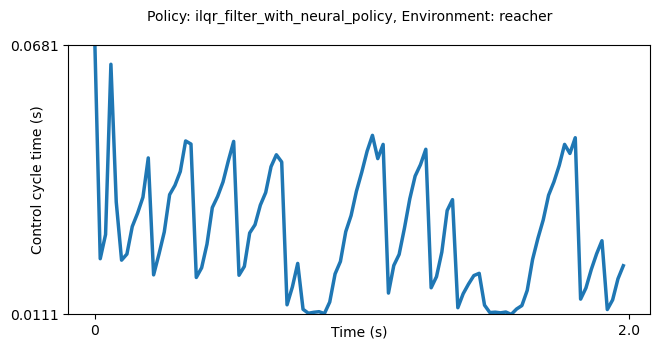
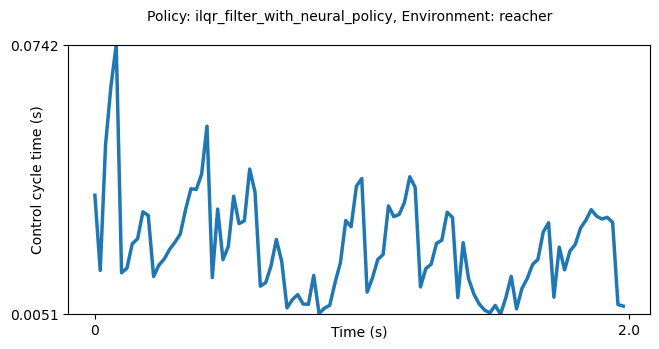
MJX exploration (#7)
* unit test failure

* switch to mjx backend

* unit test to check whether gc rollout is sufficient

* reacher works

* backward compatibility

* ant with mjx

diff --git a/test_brax_env.py b/test_brax_env.py
@@ -12,6 +12,7 @@ from brax.training.agents.ppo import train as ppo
 from brax.io import model
 from brax import envs
 from brax_utils import ( WrappedBraxEnv, 
+      WrappedMJXEnv, 
       ReacherRegularizedGoalCost, 
       iLQRBrax, 
       iLQRBraxReachability, 
@@ -28,7 +29,7 @@ def get_neural_policy(env_name, backend):
       'reacher': functools.partial(ppo.train, num_timesteps=1, num_evals=1, reward_scaling=5, episode_length=1000, normalize_observations=True, action_repeat=4, unroll_length=50, num_minibatches=1, num_updates_per_batch=8, discounting=0.95, learning_rate=3e-4, entropy_cost=1e-3, num_envs=1, batch_size=256, max_devices_per_host=8, seed=1),
       'ant': functools.partial(ppo.train, num_timesteps=0, num_evals=1, reward_scaling=10, episode_length=1000, normalize_observations=True, action_repeat=1, unroll_length=5, num_minibatches=32, num_updates_per_batch=4, discounting=0.97, learning_rate=3e-4, entropy_cost=1e-2, num_envs=4096, batch_size=2048, seed=1),
     }[env_name]
-    brax_env = WrappedBraxEnv(env_name, backend)
+    brax_env = get_brax_env(env_name, backend)
     make_inference_fn, params, _ = train_fn(environment=brax_env.env)
     params = model.load_params(f'./brax_utils/trained_models/{env_name}_params')
     inference_fn = make_inference_fn(params)
@@ -45,16 +46,23 @@ def warmup_jit_with_task_policy_rollout(rng, state, brax_env, task_policy, safet
     safety_filter.get_action(obs=state, state=state, task_ctrl=task_ctrl, prev_ctrl = np.zeros((brax_env.dim_u, )), warmup=True)
 
     # Substitute for rejection sampling
-    for _ in range(10):
+    for _ in range(15):
       task_ctrl, _ = task_policy(state.obs, act_rng)
       safety_filter.get_action(obs=state, state=state, task_ctrl=task_ctrl, prev_ctrl = np.zeros((brax_env.dim_u, )), warmup=True)
       state = brax_env.step(state, task_ctrl)
 
+def get_brax_env(env_name, backend):
+    if backend=='mjx':
+        return WrappedMJXEnv(env_name, backend)
+    else:
+        return WrappedBraxEnv(env_name, backend)
+
 
 def main(seed: int, env_name='reacher', policy_type="neural"):
     # @param ['ant', 'halfcheetah', 'hopper', 'humanoid', 'humanoidstandup', 'inverted_pendulum', 'inverted_double_pendulum', 'pusher', 'reacher', 'walker2d']
-    backend = 'generalized'  # @param ['generalized', 'positional', 'spring']
-    brax_env = WrappedBraxEnv(env_name, backend)
+    backend = 'mjx'  # @param ['generalized', 'positional', 'spring']
+    brax_env = get_brax_env(env_name, backend)
+
     rng = jax.random.PRNGKey(seed=seed)
     state = brax_env.reset(rng=rng)
     save_folder = f"./brax_videos/{env_name}/seed_{seed}"
@@ -74,13 +82,13 @@ def main(seed: int, env_name='reacher', policy_type="neural"):
       config_cost.N = config_solver.N
       reachability_cost = None
       if env_name=="reacher":
-        reachability_cost = ReacherReachabilityMargin(config=config_cost, env=WrappedBraxEnv(env_name, backend))
+        reachability_cost = ReacherReachabilityMargin(config=config_cost, env=get_brax_env(env_name, backend))
       elif env_name=="ant":
-        reachability_cost = AntReachabilityMargin(config=config_cost, env=WrappedBraxEnv(env_name, backend))
+        reachability_cost = AntReachabilityMargin(config=config_cost, env=get_brax_env(env_name, backend))
       else:
         raise NotImplementedError("Other environments not implemented.")
 
-      safe_policy = iLQRBraxReachability(id=env_name, brax_env=WrappedBraxEnv(env_name, backend), cost=reachability_cost, config=config_solver)
+      safe_policy = iLQRBraxReachability(id=env_name, brax_env=get_brax_env(env_name, backend), cost=reachability_cost, config=config_solver)
       # Warmup
       safe_policy.get_action(state, controls=None)
       T = config_solver.MAX_ITER_RECEDING
@@ -89,8 +97,8 @@ def main(seed: int, env_name='reacher', policy_type="neural"):
       config = load_config(f'./brax_utils/configs/{env_name}.yaml')
       config_solver = config['solver']
       cost = ReacherRegularizedGoalCost(center=brax_env._get_obs(state.pipeline_state)[4:6], 
-                                          env=WrappedBraxEnv(env_name, backend), ctrl_cost_matrix=-3*jnp.eye(2))
-      policy = iLQRBrax(id=env_name, brax_env=WrappedBraxEnv(env_name, backend), cost=cost, config=config_solver)
+                                          env=get_brax_env(env_name, backend), ctrl_cost_matrix=-3*jnp.eye(2))
+      policy = iLQRBrax(id=env_name, brax_env=get_brax_env(env_name, backend), cost=cost, config=config_solver)
       # Warmup
       policy.get_action(state, controls=None)
       T = config_solver.MAX_ITER_RECEDING
@@ -102,13 +110,13 @@ def main(seed: int, env_name='reacher', policy_type="neural"):
 
       reachability_cost = None
       if env_name=="reacher":
-        reachability_cost = ReacherReachabilityMargin(config=config_cost, env=WrappedBraxEnv(env_name, backend))
+        reachability_cost = ReacherReachabilityMargin(config=config_cost, env=get_brax_env(env_name, backend))
       elif env_name=="ant":
-        reachability_cost = AntReachabilityMargin(config=config_cost, env=WrappedBraxEnv(env_name, backend))
+        reachability_cost = AntReachabilityMargin(config=config_cost, env=get_brax_env(env_name, backend))
       else:
         raise NotImplementedError("Other environments not implemented.")
 
-      policy = iLQRBraxReachability(id=env_name, brax_env=WrappedBraxEnv(env_name, backend), cost=reachability_cost, config=config_solver)
+      policy = iLQRBraxReachability(id=env_name, brax_env=get_brax_env(env_name, backend), cost=reachability_cost, config=config_solver)
       # Warmup
       policy.get_action(state, controls=None)
       T = config_solver.MAX_ITER_RECEDING
@@ -119,16 +127,16 @@ def main(seed: int, env_name='reacher', policy_type="neural"):
       config_cost.N = config_solver.N
       
       if env_name=="reacher":
-        reachability_cost = ReacherReachabilityMargin(config=config_cost, env=WrappedBraxEnv(env_name, backend))
+        reachability_cost = ReacherReachabilityMargin(config=config_cost, env=get_brax_env(env_name, backend))
       elif env_name=="ant":
         # NOTE: DOES NOT WORK
-        reachability_cost = AntReachabilityMargin(config=config_cost, env=WrappedBraxEnv(env_name, backend))
+        reachability_cost = AntReachabilityMargin(config=config_cost, env=get_brax_env(env_name, backend))
       else:
         raise NotImplementedError("Other environments not implemented.")
       
-      #safe_policy = iLQRBraxReachability(id=env_name, brax_env=WrappedBraxEnv(env_name, backend), cost=reachability_cost, config=config_solver)
+      #safe_policy = iLQRBraxReachability(id=env_name, brax_env=get_brax_env(env_name, backend), cost=reachability_cost, config=config_solver)
       task_policy = get_neural_policy(env_name, backend)
-      brax_envs = [WrappedBraxEnv(env_name, backend), WrappedBraxEnv(env_name, backend), WrappedBraxEnv(env_name, backend), WrappedBraxEnv(env_name, backend)]
+      brax_envs = [get_brax_env(env_name, backend), get_brax_env(env_name, backend), get_brax_env(env_name, backend), get_brax_env(env_name, backend)]
       safety_filter =  iLQRBraxSafetyFilter(id=env_name, brax_envs=brax_envs, cost=reachability_cost, config=config_solver)
 
       # Warmup
@@ -145,12 +153,12 @@ def main(seed: int, env_name='reacher', policy_type="neural"):
       config_solver = config['solver']
       config_cost = config['cost']
       config_cost.N = config_solver.N
-      reachability_cost = ReacherReachabilityMargin(config=config_cost, env=WrappedBraxEnv(env_name, backend))
-      #safe_policy = iLQRBraxReachability(id=env_name, brax_env=WrappedBraxEnv(env_name, backend), cost=reachability_cost, config=config_solver)
+      reachability_cost = ReacherReachabilityMargin(config=config_cost, env=get_brax_env(env_name, backend))
+      #safe_policy = iLQRBraxReachability(id=env_name, brax_env=get_brax_env(env_name, backend), cost=reachability_cost, config=config_solver)
       cost = ReacherRegularizedGoalCost(center=brax_env._get_obs(state.pipeline_state)[4:6], 
-                                          env=WrappedBraxEnv(env_name, backend), ctrl_cost_matrix=-3*jnp.eye(2))
-      task_policy = iLQRBrax(id=env_name, brax_env=WrappedBraxEnv(env_name, backend), cost=cost, config=config_solver)
-      brax_envs = [WrappedBraxEnv(env_name, backend), WrappedBraxEnv(env_name, backend), WrappedBraxEnv(env_name, backend), WrappedBraxEnv(env_name, backend)]
+                                          env=get_brax_env(env_name, backend), ctrl_cost_matrix=-3*jnp.eye(2))
+      task_policy = iLQRBrax(id=env_name, brax_env=get_brax_env(env_name, backend), cost=cost, config=config_solver)
+      brax_envs = [get_brax_env(env_name, backend), get_brax_env(env_name, backend), get_brax_env(env_name, backend), get_brax_env(env_name, backend)]
       safety_filter =  iLQRBraxSafetyFilter(id=env_name, brax_envs=brax_envs, cost=reachability_cost, config=config_solver)
       # Warmup
       act_rng, rng = jax.random.split(rng)

diff --git a/brax_utils/wrapped_env/wrapper_env.py b/brax_utils/wrapped_env/wrapper_env.py
@@ -94,6 +94,26 @@ class WrappedBraxEnv(ABC):
     def _get_obs(self, pipeline_state: State) -> jax.Array:
         return self.env._get_obs(pipeline_state)
 
+    def test_gc_rollout(self):
+        # FAILS - to provide information about MJX
+        rng = jax.random.PRNGKey(seed=0)
+        test_state = self.reset(rng=rng)
+
+        for _ in range(100):
+            action = np.random.rand(self.dim_u)
+            new_state = self.step(test_state, action)
+            print(test_state.pipeline_state.qpos, test_state.pipeline_state.qvel)
+            new_gc_state = self.step_generalized_coordinates(test_state, test_state.pipeline_state.qpos, test_state.pipeline_state.qvel, action)
+
+            np.testing.assert_allclose(new_state.pipeline_state.qpos, new_gc_state[0:self.dim_q_states], atol=1e-4, rtol=1e-4)
+            np.testing.assert_allclose(new_state.pipeline_state.qvel, new_gc_state[self.dim_q_states:], atol=1e-4, rtol=1e-4)
+
+            test_state = new_state
+
+        print("Unit test passed")
+
+        return True
+
     def plot_states_and_controls(self, save_dict, save_folder):
         states = save_dict['gc_states']
         ctrls = save_dict['actions']
@@ -228,3 +248,27 @@ class WrappedBraxEnv(ABC):
         fig.suptitle(f'Policy: {policy_type}, Environment: {self.env_name}', fontsize=legend_fontsize)
         fig.savefig(os.path.join(save_folder, f'{policy_type}_values.png'), bbox_inches='tight')
         plt.close()
+
+
+class WrappedMJXEnv(WrappedBraxEnv):
+
+    @partial(jax.jit, static_argnames='self')
+    def get_generalized_coordinates(self, state) -> jax.Array:
+        return jnp.concatenate([state.pipeline_state.qpos[0:self.dim_q_states], state.pipeline_state.qvel[0:self.dim_qd_states]], axis=-1) 
+
+    @partial(jax.jit, static_argnames=['self'])
+    def step_generalized_coordinates(self, state, qpos, qvel, action):
+        pipeline_state_qqd = state.pipeline_state.tree_replace({'qpos': qpos, 'qvel': qvel})
+        state_qqd = state.tree_replace({'pipeline_state': pipeline_state_qqd})
+        new_state = self.env.step(state_qqd, action)
+        new_generalized_coordinates = self.get_generalized_coordinates(new_state)
+        return new_generalized_coordinates
+    
+    @partial(jax.jit, static_argnames=['self'])
+    def get_generalized_coordinates_grad(self, state, action):
+        qpos = jnp.array(state.pipeline_state.qpos)
+        qvel = jnp.array(state.pipeline_state.qvel)
+        q_grad = jax.jacfwd(self.step_generalized_coordinates, argnums=1)(state, qpos, qvel,  action)
+        qd_grad = jax.jacfwd(self.step_generalized_coordinates, argnums=2)(state, qpos, qvel, action)
+        action_grad = jax.jacfwd(self.step_generalized_coordinates, argnums=3)(state, qpos, qvel, action)
+        return jnp.concatenate([q_grad[..., 0:self.dim_q_states], qd_grad[..., 0:self.dim_qd_states]], axis=-1), action_grad

diff --git a/brax_utils/__init__.py b/brax_utils/__init__.py
@@ -1,4 +1,4 @@
-from .wrapped_env.wrapper_env import WrappedBraxEnv
+from .wrapped_env.wrapper_env import WrappedBraxEnv, WrappedMJXEnv
 from .policy.brax_ilqr_policy import iLQRBrax
 from .policy.brax_ilqr_reachability_policy import iLQRBraxReachability
 from .policy.brax_ilqr_filter_policy import iLQRBraxSafetyFilter
